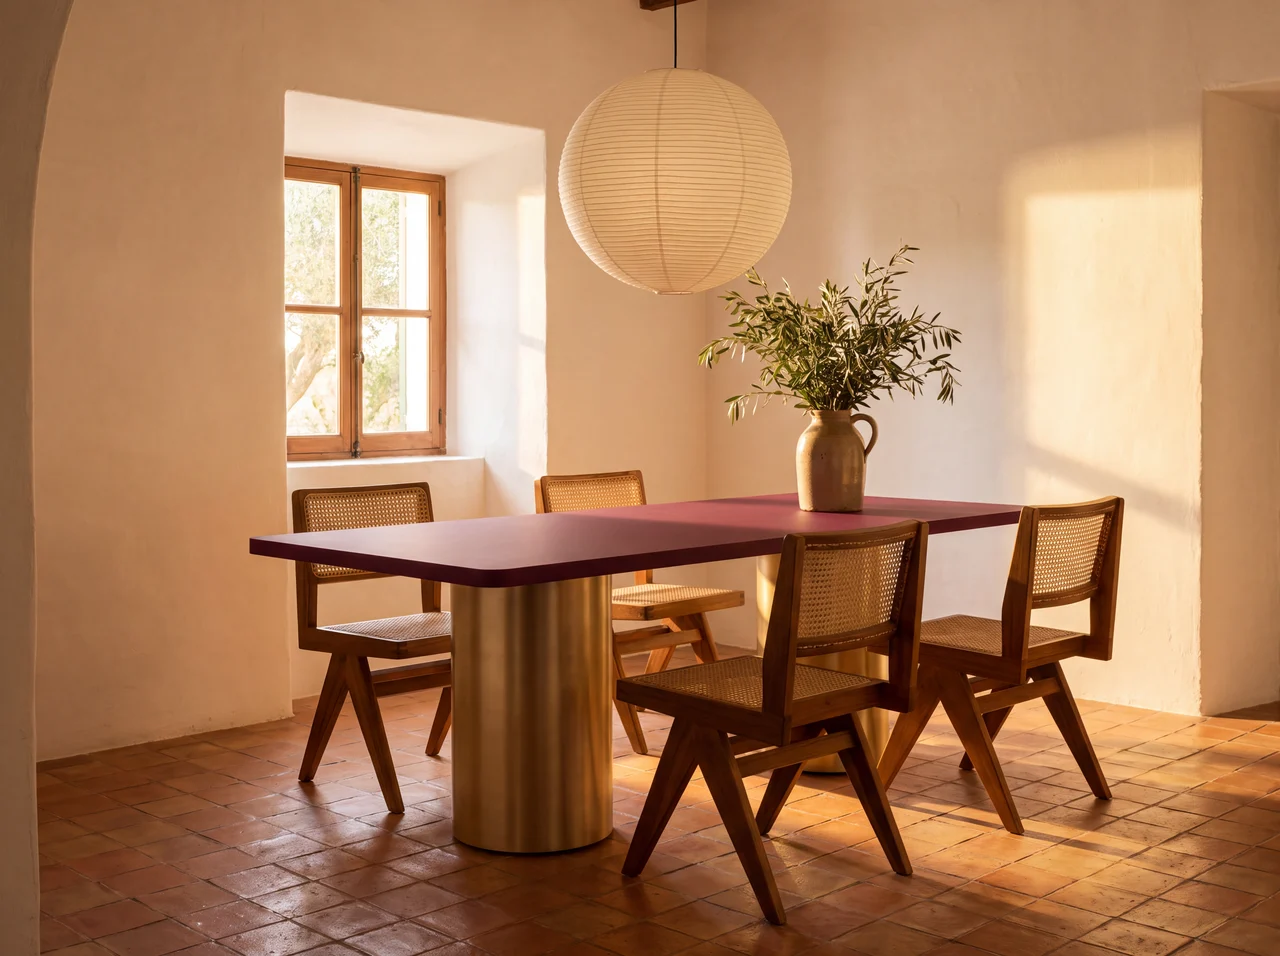
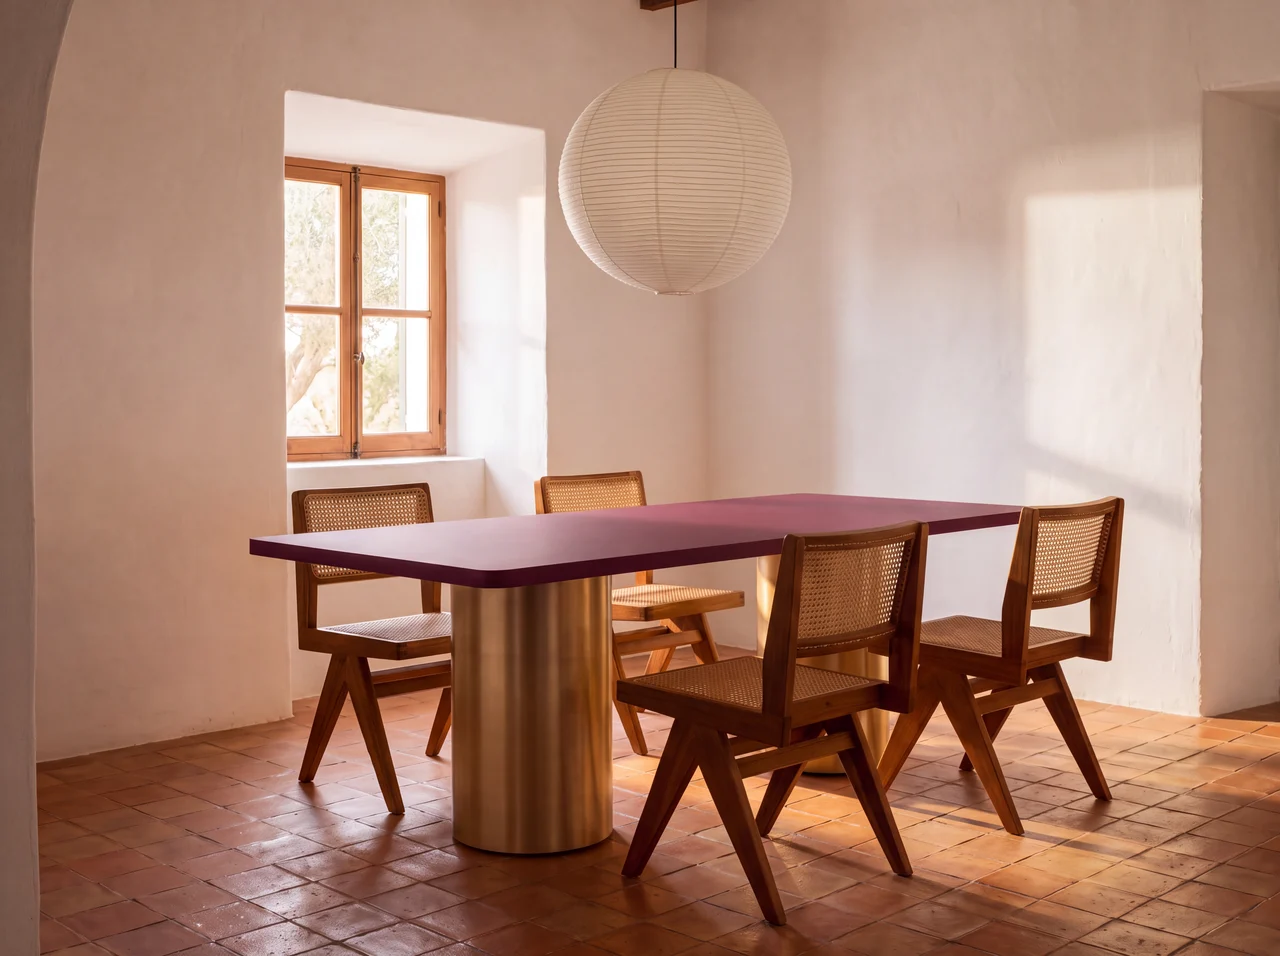
MIIM-I in situ: cooler daylight, empty tabletop

diff --git a/src/data/objects.js b/src/data/objects.js
@@ -46,7 +46,7 @@ const objects = [
     thumbnail: '/images/miim-i-yellow-steel.jpg',
     inSitu: {
       src: '/images/miim-i-plum-brass-insitu-terracotta.jpg',
-      alt: 'MIIM-I in plum with brass base, in a sunlit room with terracotta floor',
+      alt: 'MIIM-I in plum with brass base in a whitewashed room with terracotta floor',
       caption: 'MIIM-I · Plum · Brushed Brass',
       credit: 'Chairs: Pierre Jeanneret, Chandigarh · Lamp: Isamu Noguchi, Akari',
     },

diff --git a/scripts/grade/fal_w2cool.py b/scripts/grade/fal_w2cool.py
@@ -1,0 +1,12 @@
+import sys; sys.argv=['x']
+from fal_gen import uri, call
+from concurrent.futures import ThreadPoolExecutor
+SRC='/Users/headroom/Desktop/MIIM/directions/warm/w2.png'
+P=("Make a subtle, photorealistic correction to this exact photograph. Keep EVERYTHING the same: the room, arch, window, walls, terracotta floor, the "
+   "Akari paper lantern, the four cane chairs and their positions, the camera, and the table exactly as it is (plum top, brass cylindrical legs, same "
+   "shape and proportions). Two changes only: 1) remove the stoneware jug with olive branches from the tabletop, leaving the plum top completely empty "
+   "and clean; 2) change the light from warm golden-hour to cooler, neutral soft daylight, like a bright overcast morning: white walls read clean "
+   "off-white rather than orange, the terracotta keeps its natural colour, softer and less amber shadows, still gentle sun through the window. "
+   "It must look like the same photograph, not restyled.")
+def go(k): return call('fal-ai/nano-banana-pro/edit',{'prompt':P,'image_urls':[uri(SRC)],'num_images':1,'output_format':'png','resolution':'4K','aspect_ratio':'4:3'},f'/Users/headroom/Desktop/MIIM/directions/warm/w2-cool-{k}.png')
+with ThreadPoolExecutor(3) as ex: print(list(ex.map(go,range(3))))
